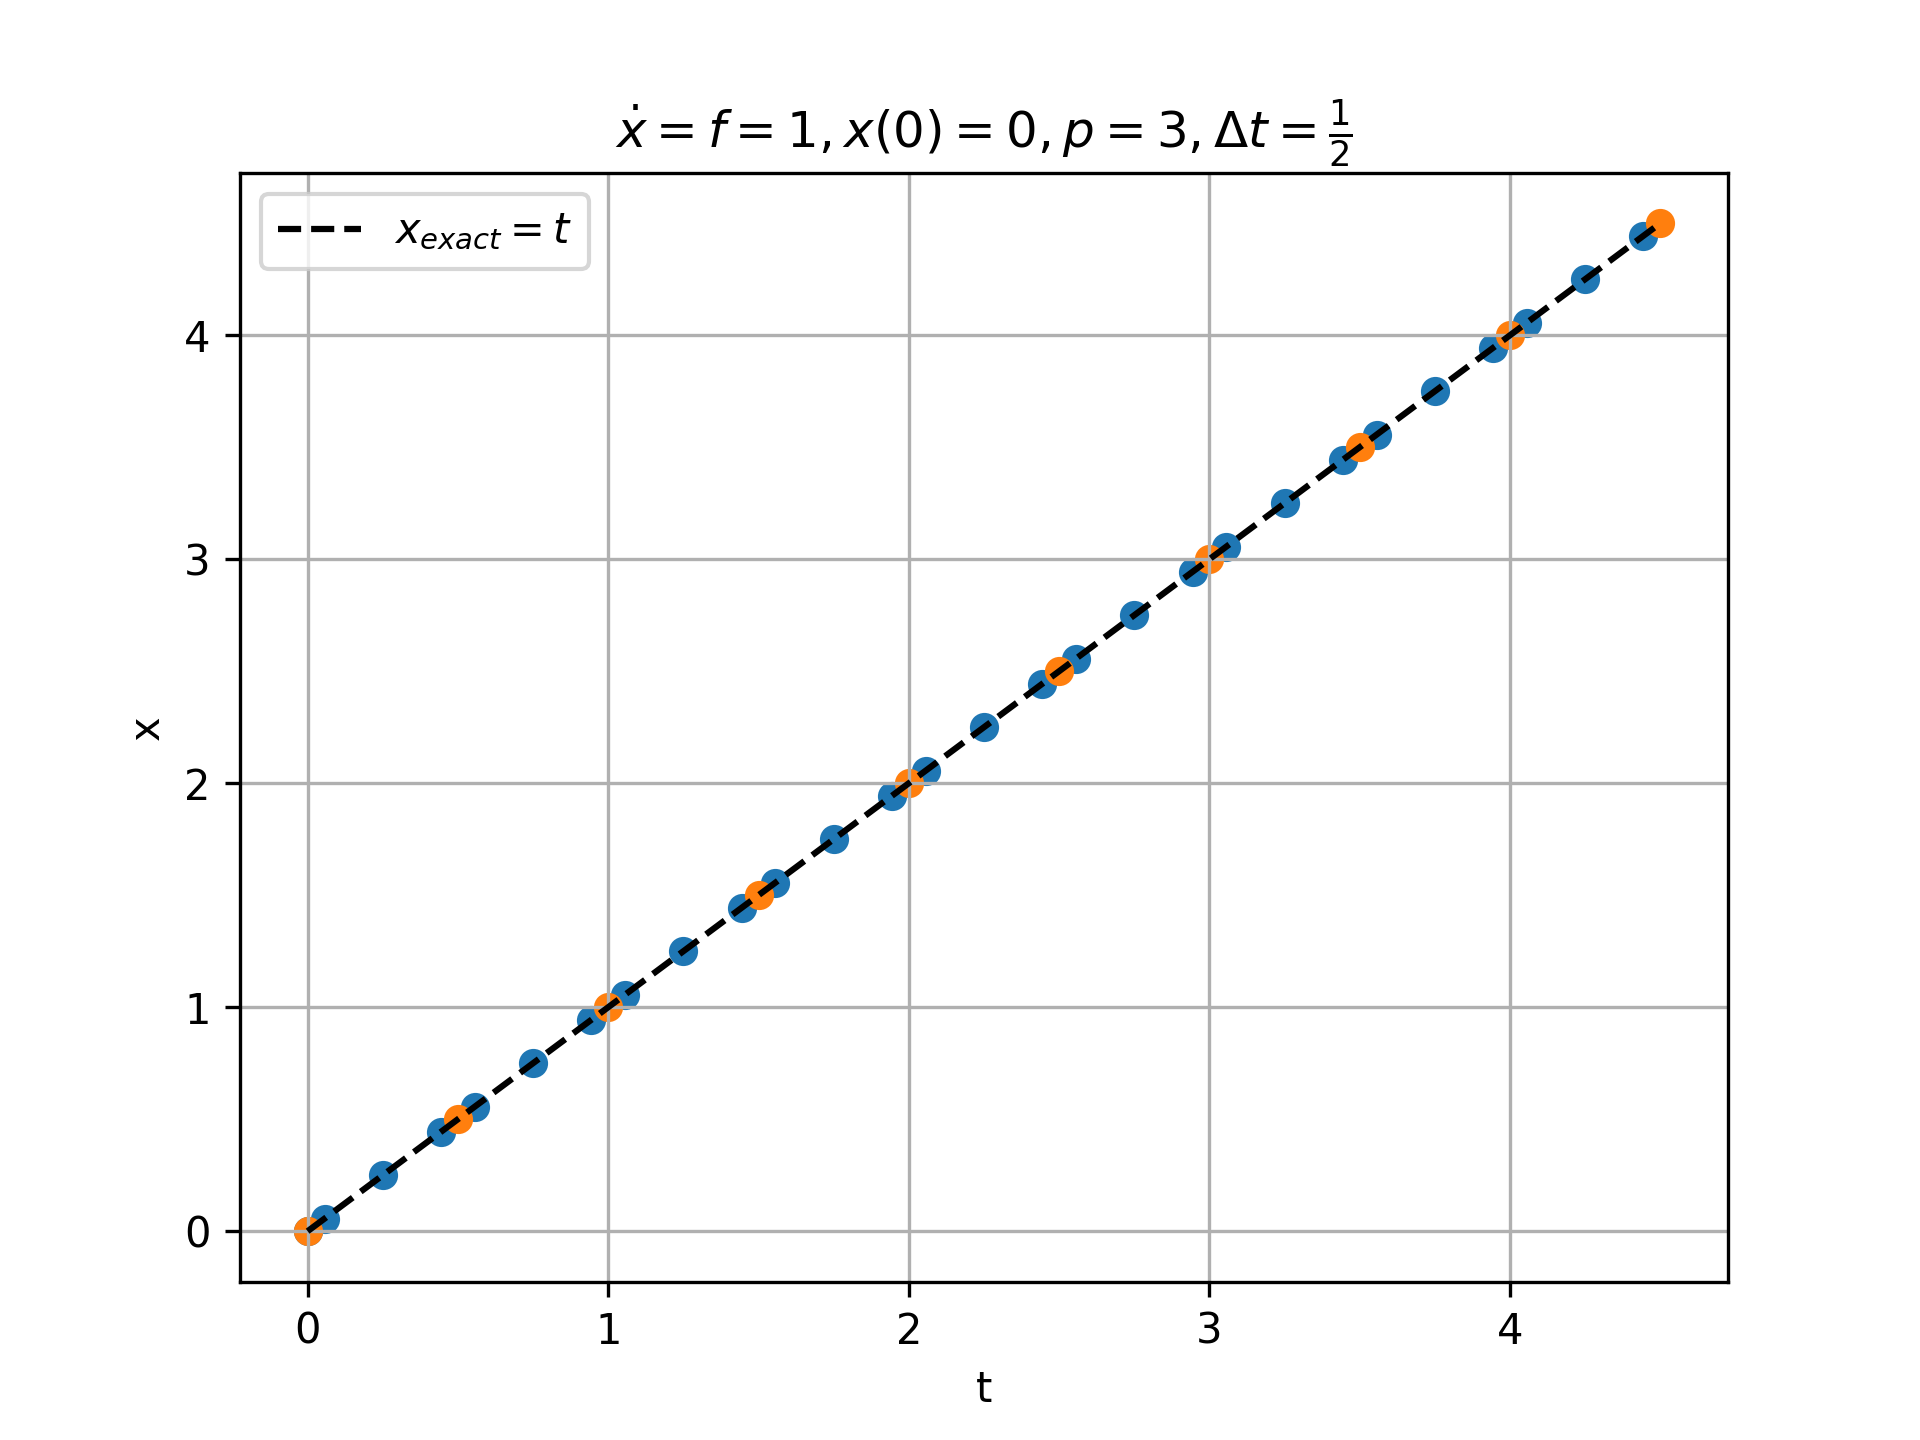
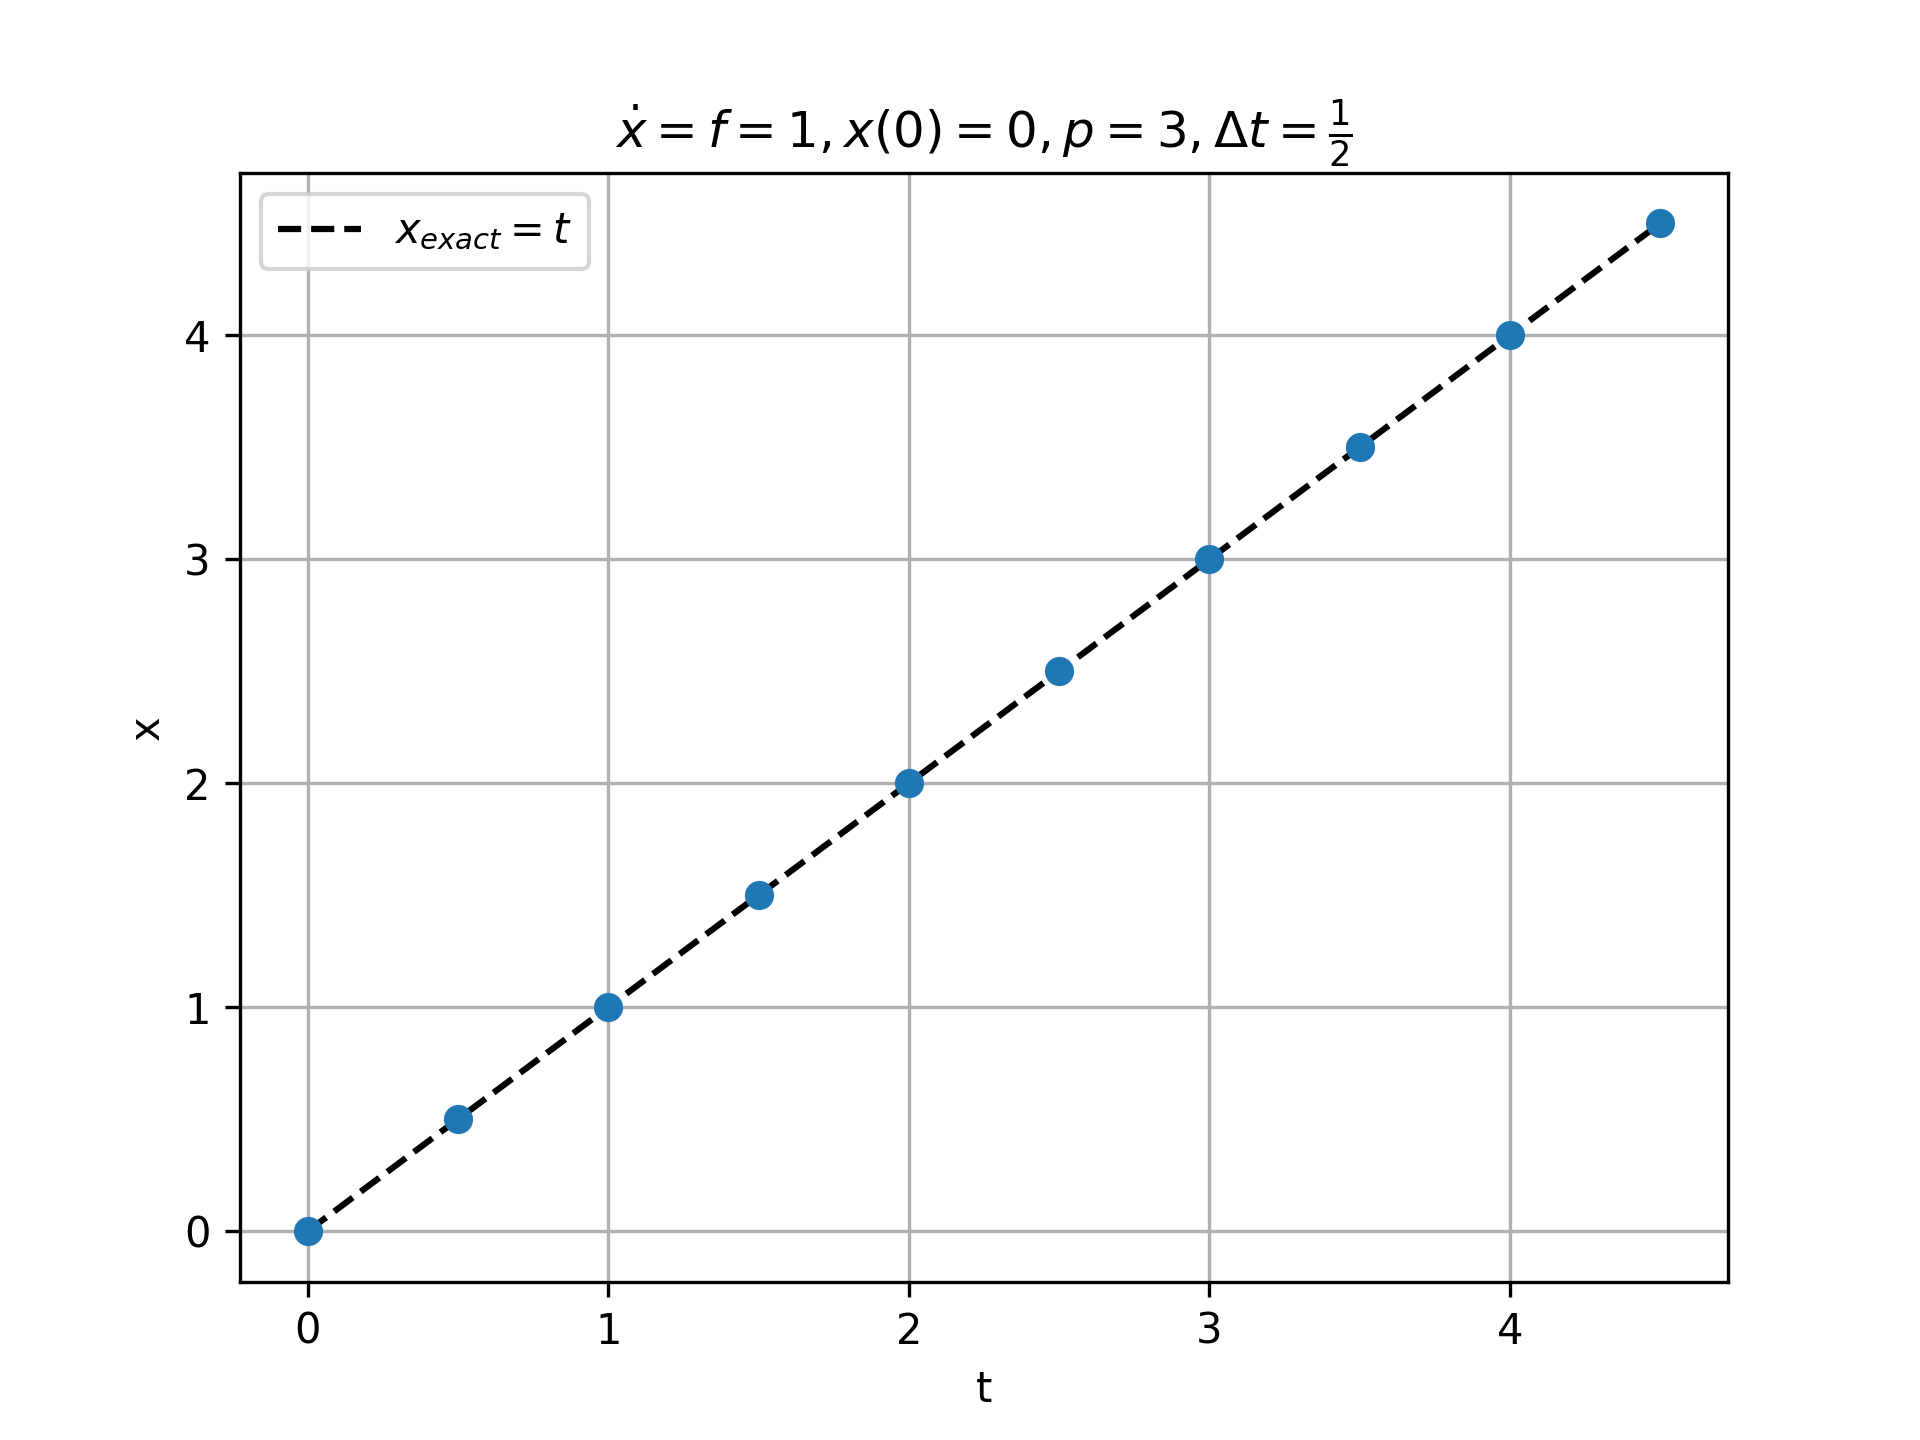
fix plotting

diff --git a/dg-1D.py b/dg-1D.py
@@ -16,7 +16,7 @@ from scipy.special import jacobi
 # xdot function
 def f(xv):
     #x = xv[0]
-    print(str(xv))
+    #print(str(xv))
     # f = 1, xv*0 + 1
     # f = t, np.array([t0,tf])
     xdot = np.sin(xv)
@@ -138,6 +138,7 @@ if __name__ == "__main__":
     tq = np.zeros((1)) # time points that correspond to quad points
     #xh[0] = 2*np.arctan(1) + 2*np.pi
     x0 = 2*np.arctan(1) + 2*np.pi
+    #x0 = 1
     xh[0] = x0
     xhq = xh[0]
     x_exact = lambda t: 2*np.arctan(np.exp(t)) + 2*np.pi
@@ -158,18 +159,18 @@ if __name__ == "__main__":
         t0 = t[j-1]
         tf = t[j]
         c = scipy.optimize.root(resid, cguess, args=(xh0,)).x # solve residual function above
-        xhq = np.append(xhq,phi @ c)
-        tq = np.append(tq,dt*xi/2 + (t0+tf)/2)
+        #xhq = np.append(xhq,phi @ c)
+        #tq = np.append(tq,dt*xi/2 + (t0+tf)/2)
         xh = np.append(xh,phi_right @ c) # xi = +1
         cguess = c
         xh0 = xh[-1]
     
 
     plt.figure()
-    plt.plot(t,x_exact(t),'k--',label=r'$x_{exact} = 2 \tan^{-1} (e^t) + 2 \pi$')
-    plt.title(r"$\dot{x} = f = \sin(x), x(0) = 2 \tan^{-1}(t) + 2 \pi, p = 3, \Delta t = \frac{1}{2}$")
-    plt.scatter(tq,xhq)
-    plt.scatter(t,xh)
+    plt.plot(t,x_exact(t),'k--',label=r'$x_{exact} = 2 \tan^{-1}(e^t) + 2\pi$')
+    plt.title(r"$\dot{x} = f = \sin(x), x(0) = 2 \tan^{-1}(t) + 2\pi, p = 3, \Delta t = \frac{1}{2}$")
+    #plt.scatter(tq,xhq)
+    plt.scatter(t,xh,zorder=2)
     plt.xlabel("t")
     plt.ylabel("x")
     plt.grid("on")
